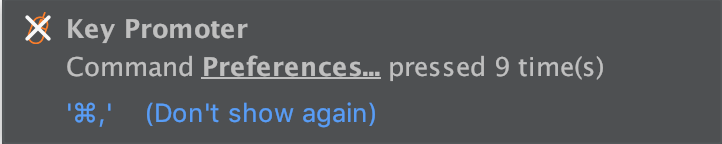
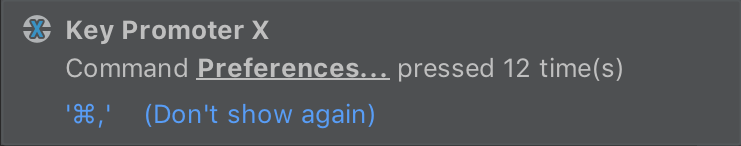
Update README and doc images

diff --git a/README.md b/README.md
@@ -1,11 +1,13 @@
-![banner](doc/img/kpxBanner.png)
+[![banner](doc/img/kpxBanner.png)](https://www.patreon.com/halirutan)
+
+[Become a patron and support the Key Promoter X development](https://www.patreon.com/halirutan)
 
 ![Downloads Badge](https://img.shields.io/jetbrains/plugin/d/9792-key-promoter-x.svg)
 [![Build Status](https://travis-ci.org/halirutan/IntelliJ-Key-Promoter.svg?branch=KeyPromoterX)](https://travis-ci.org/halirutan/IntelliJ-Key-Promoter)
 [![Join the chat at https://gitter.im/IntelliJ-Key-Promoter-X/Lobby](https://badges.gitter.im/IntelliJ-Key-Promoter-X/Lobby.svg)](https://gitter.im/IntelliJ-Key-Promoter-X/Lobby?utm_source=badge&utm_medium=badge&utm_campaign=pr-badge&utm_content=badge)
 
-A plugin for IntelliJ platform based products like IDEA, Android Studio, CLion, and many more.
-The Key Promoter X helps you to learn essential keyboard shortcuts from mouse actions while you are working.
+The Key Promoter X is a plugin for IntelliJ-based products like IDEA, Android Studio, or CLion, and it helps to learn
+essential keyboard shortcuts from mouse actions while you are working.
 When you use the mouse on a button inside the IDE, the Key Promoter X shows you the keyboard shortcut that you should
 have used instead. This provides an easy way to learn how
 to replace tedious mouse work with keyboard keys and helps to transition to a faster, mouse free development.
@@ -43,13 +45,13 @@ Additionally, it will save your mouse-click
 in the Key Promoter X statistics tool-windows so that you see which actions you are using the most and which shortcuts you should learn first.
 
 If the action is not connected to a shortcut but has an `ActionID` (which basically means we can assign a shortcut), the plugin still registers
-your click. Depending on your settings under *Settings* -> *Tools* -> *Key Promoter X*, you will get a notification every x clicks on the
+your click. Depending on your settings under **Settings | Tools | Key Promoter X**, you will get a notification every x clicks on the
 same action that asks you if you want to create a shortcut for this.
 
 Be aware that there are certain mouse-clicks that, although they do something, cannot be successfully inspected and the plugin won't be able
 to help you with those. This for instance happens for some of the buttons in the tool-windows.
 
-### The *Key Promoter X* tool-window
+### The Key Promoter X tool-window
 
 The Key Promoter X comes with built in tool-window on the right side that gives you access to your hit-list of missed shortcuts and to the
 the list of suppressed items.
@@ -62,31 +64,43 @@ Every mouse click that is connected to an action with a shortcut will be registe
 
 You can re-activate a suppressed item by double-clicking on it in the suppressed list.
 
-### Settings
+### Settings for the Key Promoter X
 
- Settings for the plugin can be found under *Settings* -> *Tools* -> *Key Promoter X*.
+ Settings for the plugin can be found under **Settings | Tools | Key Promoter X**.
 
 ![Settings Panel](doc/img/settings.png)
 
-The first box lets you adjust how many *Key Promoter X* notifications are allowed to be shown at the same time. If you have set this to a
-number, say 3, and you are a heavy clicker, then each new notification will make the oldest disappear so that only 3 messages are shown
-at max.
+#### General
 
-With the second spinner, you can adjust whether the Key Promoter X should display a notification each time you press
+- Show only keyboard shortcuts prevents the display of notifications of short-cuts for the mouse. One example is the
+*Go to declaration* action, which also has certain mouse combination to invoke the action. Enabling this option will
+only show valid keyboard short-cuts.
+- Disable in presentation or distraction free mode will disable the Key Promoter X when you are giving a presentation or
+you explicitly don't wan to be disturbed.
+
+#### Settings
+
+- Clicks before notification is shown adjusts whether the Key Promoter X should display a notification each time you press
 a button with the mouse that has a key combination available.
-If you adjust this setting to 2, only every second click will show a notification, etc.
+E.g., with a setting of 2, every second click will show a notification.
+- Number of invocations before suggesting to create adjusts how often a button without a short-cut needs to be clicked
+before you see a message suggesting to create one for it.
 
-The last spinner lets you adjust how often you have to click a button with no shortcut before you see a message suggesting to create
-a shortcut for it.
+#### Enable for
 
-In the *Enabled for* box it is possible to adjust which buttons are allowed to show a tip. Note that the *All Buttons* checkbox will try
+Adjusts which buttons are allowed to show a tip. Note that the *All Buttons* checkbox will try
 to catch as many mouse-clicks as possible, even if you are not pressing a real button. This will show you for instance a tip when you
 hold Ctrl and press on a Java method to jump to its declaration which can be replaced by Ctrl+B.
 
 
 ## ![dev image][dev-image] Development  [![Build Status](https://travis-ci.org/halirutan/IntelliJ-Key-Promoter.svg?branch=KeyPromoterX)](https://travis-ci.org/halirutan/IntelliJ-Key-Promoter)
 
-The plugin is written in Java using IntelliJ's plugin framework. The code-base is extremely small and contains only a handful of well documented classes. The code is hosted on GitHub and has a [Travis-CI](https://travis-ci.org/) integration for automatic building. Compilation is done with Gradle using the IntelliJ Gradle plugin and should work out of the box with a recent (v3.5) version.
+The plugin is written in Java using IntelliJ's plugin framework.
+The code-base is small and contains only a handful of well documented classes, which makes it an excellent candidate to 
+learn how to implement IntelliJ plugins.
+
+The code is hosted on GitHub and has a [Travis-CI](https://travis-ci.org/) integration for automatic building.
+Compilation is done with Gradle using the IntelliJ Gradle plugin and should work out of the box with a recent (v3.5) version.
 
 ## ![bug image][issues-image] Reporting issues
 
